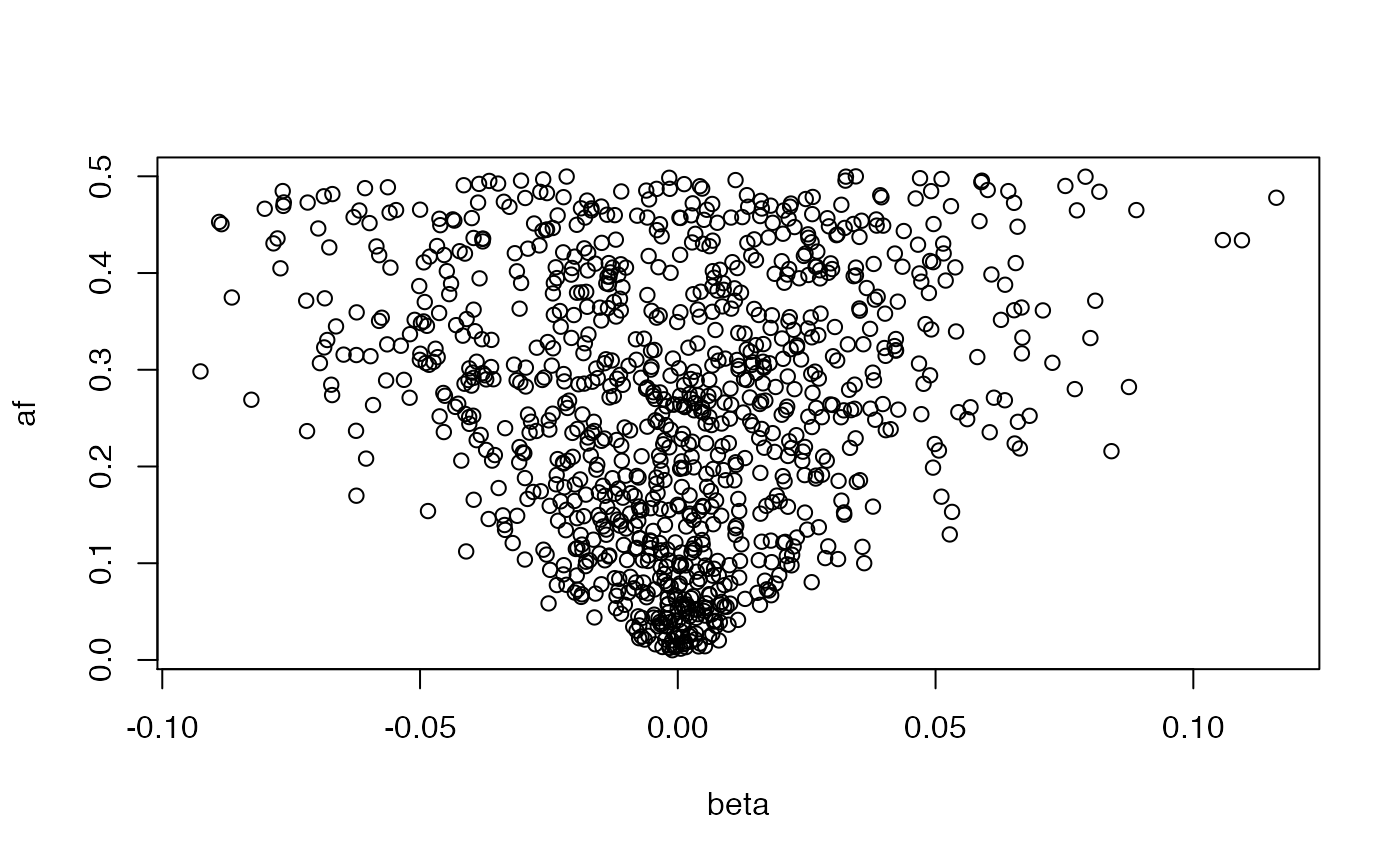
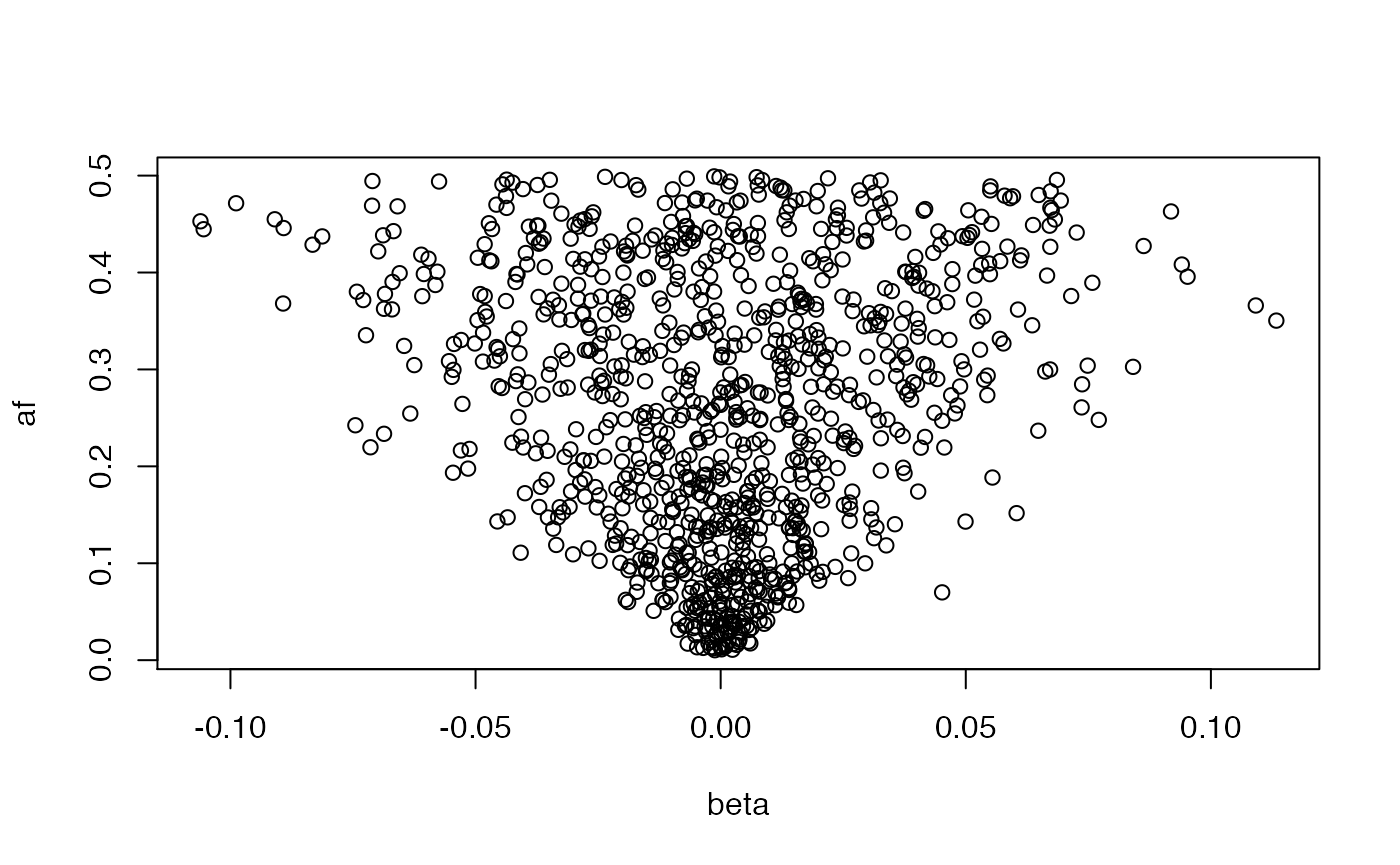
adding more tests

diff --git a/docs/articles/gwas_summary_data.html b/docs/articles/gwas_summary_data.html
@@ -144,9 +144,9 @@ s_{\hat{\beta}_1} = \sqrt{\frac{\sum{\epsilon_i^2}}{(n-2) \sum{(x_i - \bar{x})^2
 <span class="va">x</span> <span class="op">&lt;-</span> <span class="fu"><a href="https://rdrr.io/r/stats/Normal.html">rnorm</a></span><span class="op">(</span><span class="va">n</span><span class="op">)</span>
 
 <span class="fu"><a href="https://rdrr.io/r/base/summary.html">summary</a></span><span class="op">(</span><span class="fu"><a href="https://rdrr.io/r/stats/lm.html">lm</a></span><span class="op">(</span><span class="va">y</span> <span class="op">~</span> <span class="va">x</span><span class="op">)</span><span class="op">)</span><span class="op">$</span><span class="va">coefficients</span><span class="op">[</span><span class="fl">2</span>,<span class="fl">2</span><span class="op">]</span>
-<span class="co">#&gt; [1] 0.1195367</span>
+<span class="co">#&gt; [1] 0.1045976</span>
 <span class="fu"><a href="https://rdrr.io/r/base/MathFun.html">sqrt</a></span><span class="op">(</span><span class="op">(</span><span class="fu"><a href="https://rdrr.io/r/stats/cor.html">var</a></span><span class="op">(</span><span class="va">y</span><span class="op">)</span> <span class="op">-</span> <span class="fu"><a href="https://rdrr.io/r/stats/cor.html">cor</a></span><span class="op">(</span><span class="va">x</span>,<span class="va">y</span><span class="op">)</span><span class="op">^</span><span class="fl">2</span> <span class="op">*</span> <span class="fu"><a href="https://rdrr.io/r/stats/cor.html">var</a></span><span class="op">(</span><span class="va">y</span><span class="op">)</span><span class="op">)</span> <span class="op">/</span> <span class="op">(</span><span class="fu"><a href="https://rdrr.io/r/stats/cor.html">var</a></span><span class="op">(</span><span class="va">x</span><span class="op">)</span> <span class="op">*</span> <span class="op">(</span><span class="va">n</span><span class="op">-</span><span class="fl">2</span><span class="op">)</span><span class="op">)</span><span class="op">)</span>
-<span class="co">#&gt; [1] 0.1195367</span></pre></div>
+<span class="co">#&gt; [1] 0.1045976</span></pre></div>
 </div>
 <div id="sampling-the-effect-estimate" class="section level2">
 <h2 class="hasAnchor">
@@ -222,7 +222,7 @@ Var(y) = V_G + V_E
 <span class="co">#&gt;     beta &lt;- beta/sqrt(vy)</span>
 <span class="co">#&gt;     return(dplyr::tibble(beta = beta, af = af))</span>
 <span class="co">#&gt; }</span>
-<span class="co">#&gt; &lt;bytecode: 0x7f8fb2d50700&gt;</span>
+<span class="co">#&gt; &lt;bytecode: 0x7fce6fb11658&gt;</span>
 <span class="co">#&gt; &lt;environment: namespace:simulateGP&gt;</span></pre></div>
 <p>Negative selection:</p>
 <div class="sourceCode" id="cb4"><pre class="downlit">
@@ -280,10 +280,6 @@ Var(y) = V_G + V_E
 <span class="va">err</span> <span class="op">&lt;-</span> <span class="fu"><a href="https://rdrr.io/r/stats/Normal.html">rnorm</a></span><span class="op">(</span><span class="va">nid</span>, mean<span class="op">=</span><span class="fl">0</span>, sd<span class="op">=</span><span class="fu"><a href="https://rdrr.io/r/base/MathFun.html">sqrt</a></span><span class="op">(</span><span class="fu"><a href="https://rdrr.io/r/stats/cor.html">var</a></span><span class="op">(</span><span class="va">score</span><span class="op">)</span> <span class="op">*</span> <span class="op">(</span><span class="fl">1</span><span class="op">-</span><span class="va">h2</span><span class="op">)</span> <span class="op">/</span> <span class="va">h2</span><span class="op">)</span><span class="op">)</span>
 <span class="va">y</span> <span class="op">&lt;-</span> <span class="va">score</span> <span class="op">+</span> <span class="va">err</span>
 <span class="va">res2</span> <span class="op">&lt;-</span> <span class="fu"><a href="../reference/gwas.html">gwas</a></span><span class="op">(</span><span class="va">y</span>, <span class="va">g</span><span class="op">)</span>
-<span class="co">#&gt; Warning: The `x` argument of `as_tibble.matrix()` must have unique column names if `.name_repair` is omitted as of tibble 2.0.0.</span>
-<span class="co">#&gt; Using compatibility `.name_repair`.</span>
-<span class="co">#&gt; This warning is displayed once every 8 hours.</span>
-<span class="co">#&gt; Call `lifecycle::last_warnings()` to see where this warning was generated.</span>
 <span class="fu"><a href="https://rdrr.io/r/graphics/plot.default.html">plot</a></span><span class="op">(</span><span class="va">res2</span><span class="op">$</span><span class="va">bhat</span> <span class="op">~</span> <span class="va">res1</span><span class="op">$</span><span class="va">bhat</span><span class="op">)</span></pre></div>
 <p><img src="gwas_summary_data_files/figure-html/unnamed-chunk-9-1.png" width="700"></p>
 <div class="sourceCode" id="cb10"><pre class="downlit">

diff --git a/docs/articles/weak_instruments.html b/docs/articles/weak_instruments.html
@@ -122,9 +122,9 @@
 
 <span class="fu"><a href="https://rdrr.io/r/stats/cor.html">var</a></span><span class="op">(</span><span class="va">bv</span><span class="op">)</span>
 <span class="co">#&gt;          [,1]</span>
-<span class="co">#&gt; [1,] 39.19044</span>
+<span class="co">#&gt; [1,] 37.49411</span>
 <span class="fu"><a href="https://rdrr.io/r/stats/sd.html">sd</a></span><span class="op">(</span><span class="va">bv</span><span class="op">)</span>
-<span class="co">#&gt; [1] 6.260227</span>
+<span class="co">#&gt; [1] 6.123243</span>
 
 
 <span class="co"># h2 &lt;- b^2 * 2 * maf * (1 - maf) / vy</span>
@@ -138,19 +138,15 @@
 <span class="va">b</span> <span class="op">&lt;-</span> <span class="fu"><a href="../reference/choose_effects.html">choose_effects</a></span><span class="op">(</span><span class="va">nsnp</span>, <span class="va">h2</span><span class="op">)</span>
 <span class="va">y</span> <span class="op">&lt;-</span> <span class="fu"><a href="../reference/make_phen.html">make_phen</a></span><span class="op">(</span><span class="va">b</span>, <span class="va">G</span><span class="op">)</span>
 <span class="fu"><a href="https://rdrr.io/r/utils/head.html">head</a></span><span class="op">(</span><span class="va">y</span><span class="op">)</span>
-<span class="co">#&gt; [1]  1.5845015  0.5558443  0.6652768 -0.1481803  0.4776362 -1.4979761</span>
+<span class="co">#&gt; [1] -0.31977801  0.09641074 -0.43948211 -0.28124294 -0.34636810 -1.04422920</span>
 <span class="fu"><a href="https://rdrr.io/r/stats/cor.html">var</a></span><span class="op">(</span><span class="va">y</span><span class="op">)</span>
 <span class="co">#&gt; [1] 1</span>
 
 <span class="va">bv</span> <span class="op">&lt;-</span> <span class="va">G</span> <span class="op">%*%</span> <span class="va">b</span>
 <span class="fu"><a href="https://rdrr.io/r/stats/cor.html">cor</a></span><span class="op">(</span><span class="va">bv</span>, <span class="va">y</span><span class="op">)</span><span class="op">^</span><span class="fl">2</span>
 <span class="co">#&gt;           [,1]</span>
-<span class="co">#&gt; [1,] 0.4008447</span>
-<span class="va">bhat</span> <span class="op">&lt;-</span> <span class="fu"><a href="../reference/gwas.html">gwas</a></span><span class="op">(</span><span class="va">y</span>, <span class="va">G</span><span class="op">)</span>
-<span class="co">#&gt; Warning: The `x` argument of `as_tibble.matrix()` must have unique column names if `.name_repair` is omitted as of tibble 2.0.0.</span>
-<span class="co">#&gt; Using compatibility `.name_repair`.</span>
-<span class="co">#&gt; This warning is displayed once every 8 hours.</span>
-<span class="co">#&gt; Call `lifecycle::last_warnings()` to see where this warning was generated.</span></pre></div>
+<span class="co">#&gt; [1,] 0.3962548</span>
+<span class="va">bhat</span> <span class="op">&lt;-</span> <span class="fu"><a href="../reference/gwas.html">gwas</a></span><span class="op">(</span><span class="va">y</span>, <span class="va">G</span><span class="op">)</span></pre></div>
 <div class="sourceCode" id="cb4"><pre class="downlit">
 <span class="va">btheory</span> <span class="op">&lt;-</span> <span class="fu"><a href="../reference/generate_gwas_ss.html">generate_gwas_ss</a></span><span class="op">(</span><span class="va">b</span>, <span class="fu"><a href="https://rdrr.io/r/base/rep.html">rep</a></span><span class="op">(</span><span class="fl">0.5</span>, <span class="va">nsnp</span><span class="op">)</span>, <span class="va">nid</span><span class="op">)</span>
 <span class="fu"><a href="https://rdrr.io/r/graphics/plot.default.html">plot</a></span><span class="op">(</span><span class="va">btheory</span><span class="op">$</span><span class="va">beta</span> <span class="op">~</span> <span class="va">bhat</span><span class="op">$</span><span class="va">bhat</span><span class="op">)</span>

diff --git a/docs/index.html b/docs/index.html
@@ -5,13 +5,13 @@
 <meta charset="utf-8">
 <meta http-equiv="X-UA-Compatible" content="IE=edge">
 <meta name="viewport" content="width=device-width, initial-scale=1.0">
-<title>Functions for simulating genotype-phenotype relationships • simulateGP</title>
+<title>Functions for Simulating Genotype-Phenotype Relationships • simulateGP</title>
 <!-- jquery --><script src="https://cdnjs.cloudflare.com/ajax/libs/jquery/3.4.1/jquery.min.js" integrity="sha256-CSXorXvZcTkaix6Yvo6HppcZGetbYMGWSFlBw8HfCJo=" crossorigin="anonymous"></script><!-- Bootstrap --><link href="https://cdnjs.cloudflare.com/ajax/libs/bootswatch/3.4.0/united/bootstrap.min.css" rel="stylesheet" crossorigin="anonymous">
 <script src="https://cdnjs.cloudflare.com/ajax/libs/twitter-bootstrap/3.4.1/js/bootstrap.min.js" integrity="sha256-nuL8/2cJ5NDSSwnKD8VqreErSWHtnEP9E7AySL+1ev4=" crossorigin="anonymous"></script><!-- bootstrap-toc --><link rel="stylesheet" href="bootstrap-toc.css">
 <script src="bootstrap-toc.js"></script><!-- Font Awesome icons --><link rel="stylesheet" href="https://cdnjs.cloudflare.com/ajax/libs/font-awesome/5.12.1/css/all.min.css" integrity="sha256-mmgLkCYLUQbXn0B1SRqzHar6dCnv9oZFPEC1g1cwlkk=" crossorigin="anonymous">
 <link rel="stylesheet" href="https://cdnjs.cloudflare.com/ajax/libs/font-awesome/5.12.1/css/v4-shims.min.css" integrity="sha256-wZjR52fzng1pJHwx4aV2AO3yyTOXrcDW7jBpJtTwVxw=" crossorigin="anonymous">
 <!-- clipboard.js --><script src="https://cdnjs.cloudflare.com/ajax/libs/clipboard.js/2.0.6/clipboard.min.js" integrity="sha256-inc5kl9MA1hkeYUt+EC3BhlIgyp/2jDIyBLS6k3UxPI=" crossorigin="anonymous"></script><!-- headroom.js --><script src="https://cdnjs.cloudflare.com/ajax/libs/headroom/0.11.0/headroom.min.js" integrity="sha256-AsUX4SJE1+yuDu5+mAVzJbuYNPHj/WroHuZ8Ir/CkE0=" crossorigin="anonymous"></script><script src="https://cdnjs.cloudflare.com/ajax/libs/headroom/0.11.0/jQuery.headroom.min.js" integrity="sha256-ZX/yNShbjqsohH1k95liqY9Gd8uOiE1S4vZc+9KQ1K4=" crossorigin="anonymous"></script><!-- pkgdown --><link href="pkgdown.css" rel="stylesheet">
-<script src="pkgdown.js"></script><meta property="og:title" content="Functions for simulating genotype-phenotype relationships">
+<script src="pkgdown.js"></script><meta property="og:title" content="Functions for Simulating Genotype-Phenotype Relationships">
 <meta property="og:description" content="Functions for simulating SNP effects on phenotypes. Functions for
     simulating disease risk on probability and liability scales. Simulations to
     quickly obtain estimates of effect sizes for simulated genotype-phenotypes.">
@@ -107,6 +107,7 @@
 <ul class="list-unstyled">
 <li><a href="https://www.tidyverse.org/lifecycle/#experimental"><img src="https://img.shields.io/badge/lifecycle-experimental-orange.svg" alt="Lifecycle: experimental"></a></li>
 <li><a href="https://github.com/explodecomputer/simulateGP/actions"><img src="https://github.com/explodecomputer/simulateGP/workflows/R-CMD-check/badge.svg" alt="R build status"></a></li>
+<li><a href="https://codecov.io/gh/explodecomputer/simulateGP?branch=master"><img src="https://codecov.io/gh/explodecomputer/simulateGP/branch/master/graph/badge.svg" alt="Codecov test coverage"></a></li>
 </ul>
 </div>
 </div>

diff --git a/docs/reference/index.html b/docs/reference/index.html
@@ -333,7 +333,7 @@
         <td>
           <p><code><a href="simulateGP-package.html">simulateGP-package</a></code> </p>
         </td>
-        <td><p>simulateGP: Functions for simulating genotype-phenotype relationships</p></td>
+        <td><p>simulateGP: Functions for Simulating Genotype-Phenotype Relationships</p></td>
       </tr><tr>
         
         <td>
